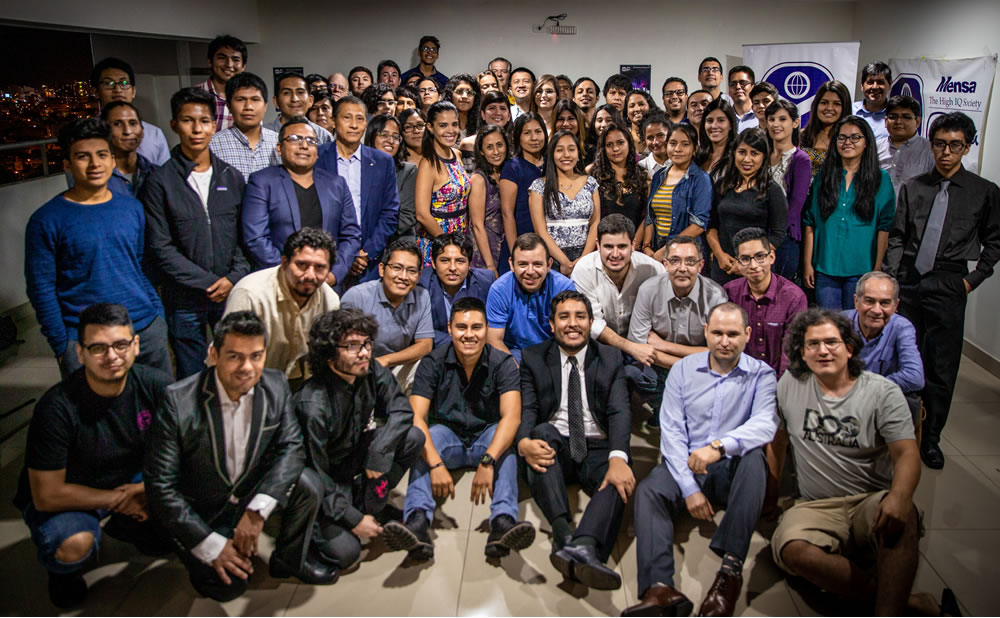
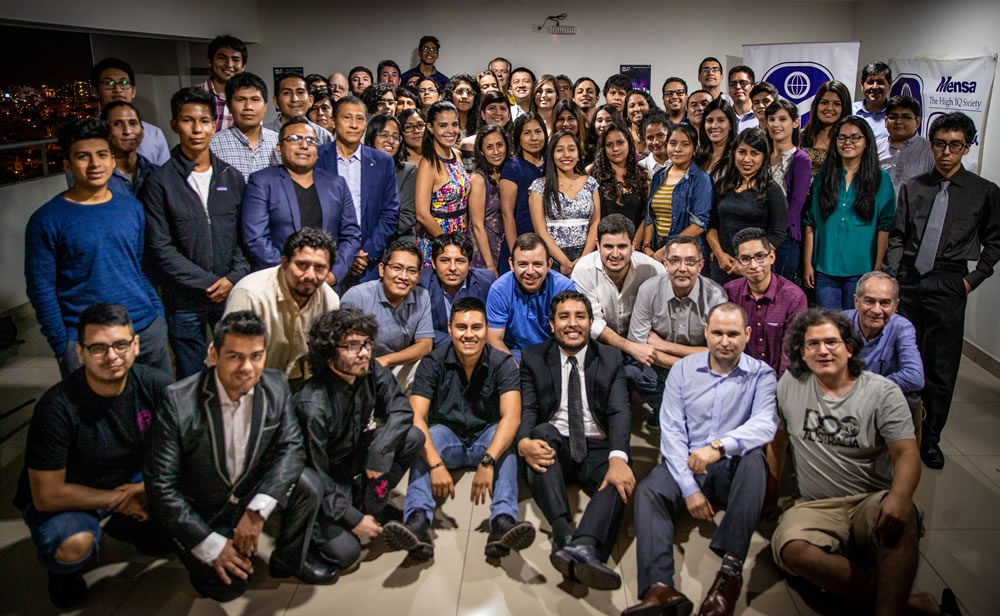
Fix mensa-grupo-2.jpg to remove white line

diff --git a/index.html b/index.html
@@ -77,7 +77,7 @@
             <div class="slider" id="slider-1">
               <div class="slides">
                 <img src="static/img/mensa-grupo-1.jpg" alt="Reunión de Mensa 1" class="active">
-                <img src="static/img/mensa-grupo-2.jpg" alt="Reunión de Mensa 2">
+                <img src="static/img/mensa-grupo-2.jpg?v=1" alt="Reunión de Mensa 2">
               </div>
 
               <div class="navigation">
